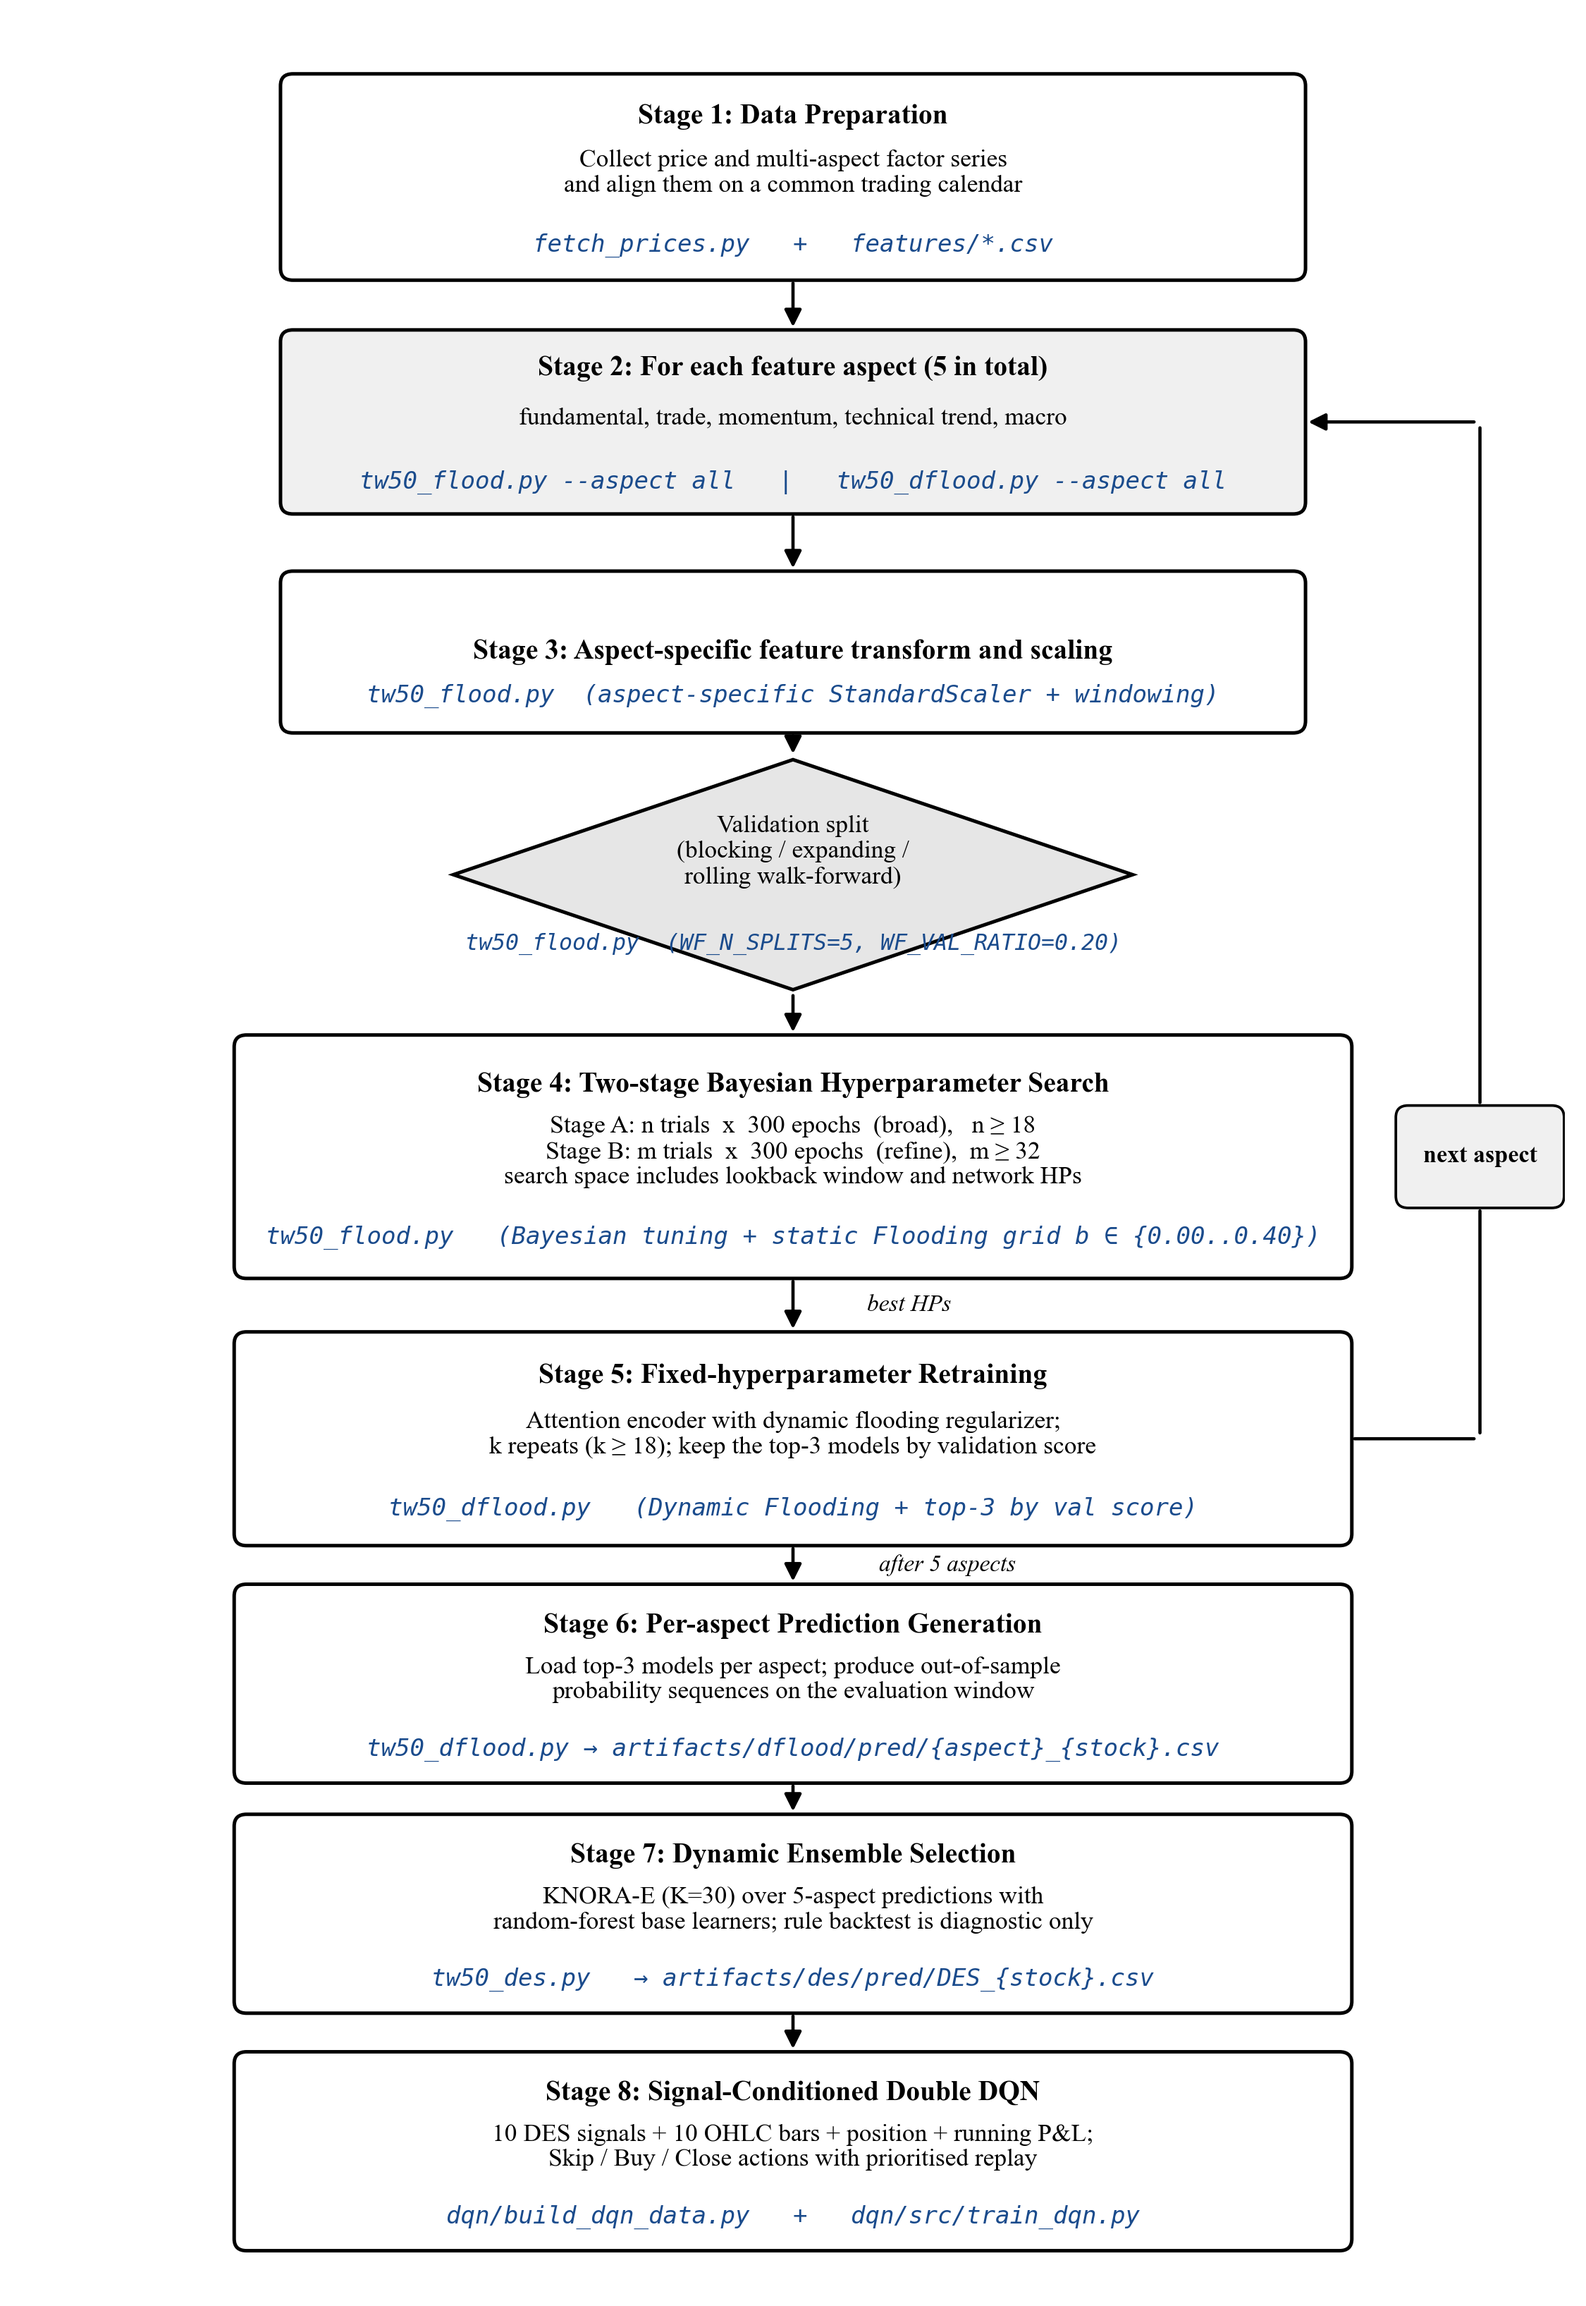
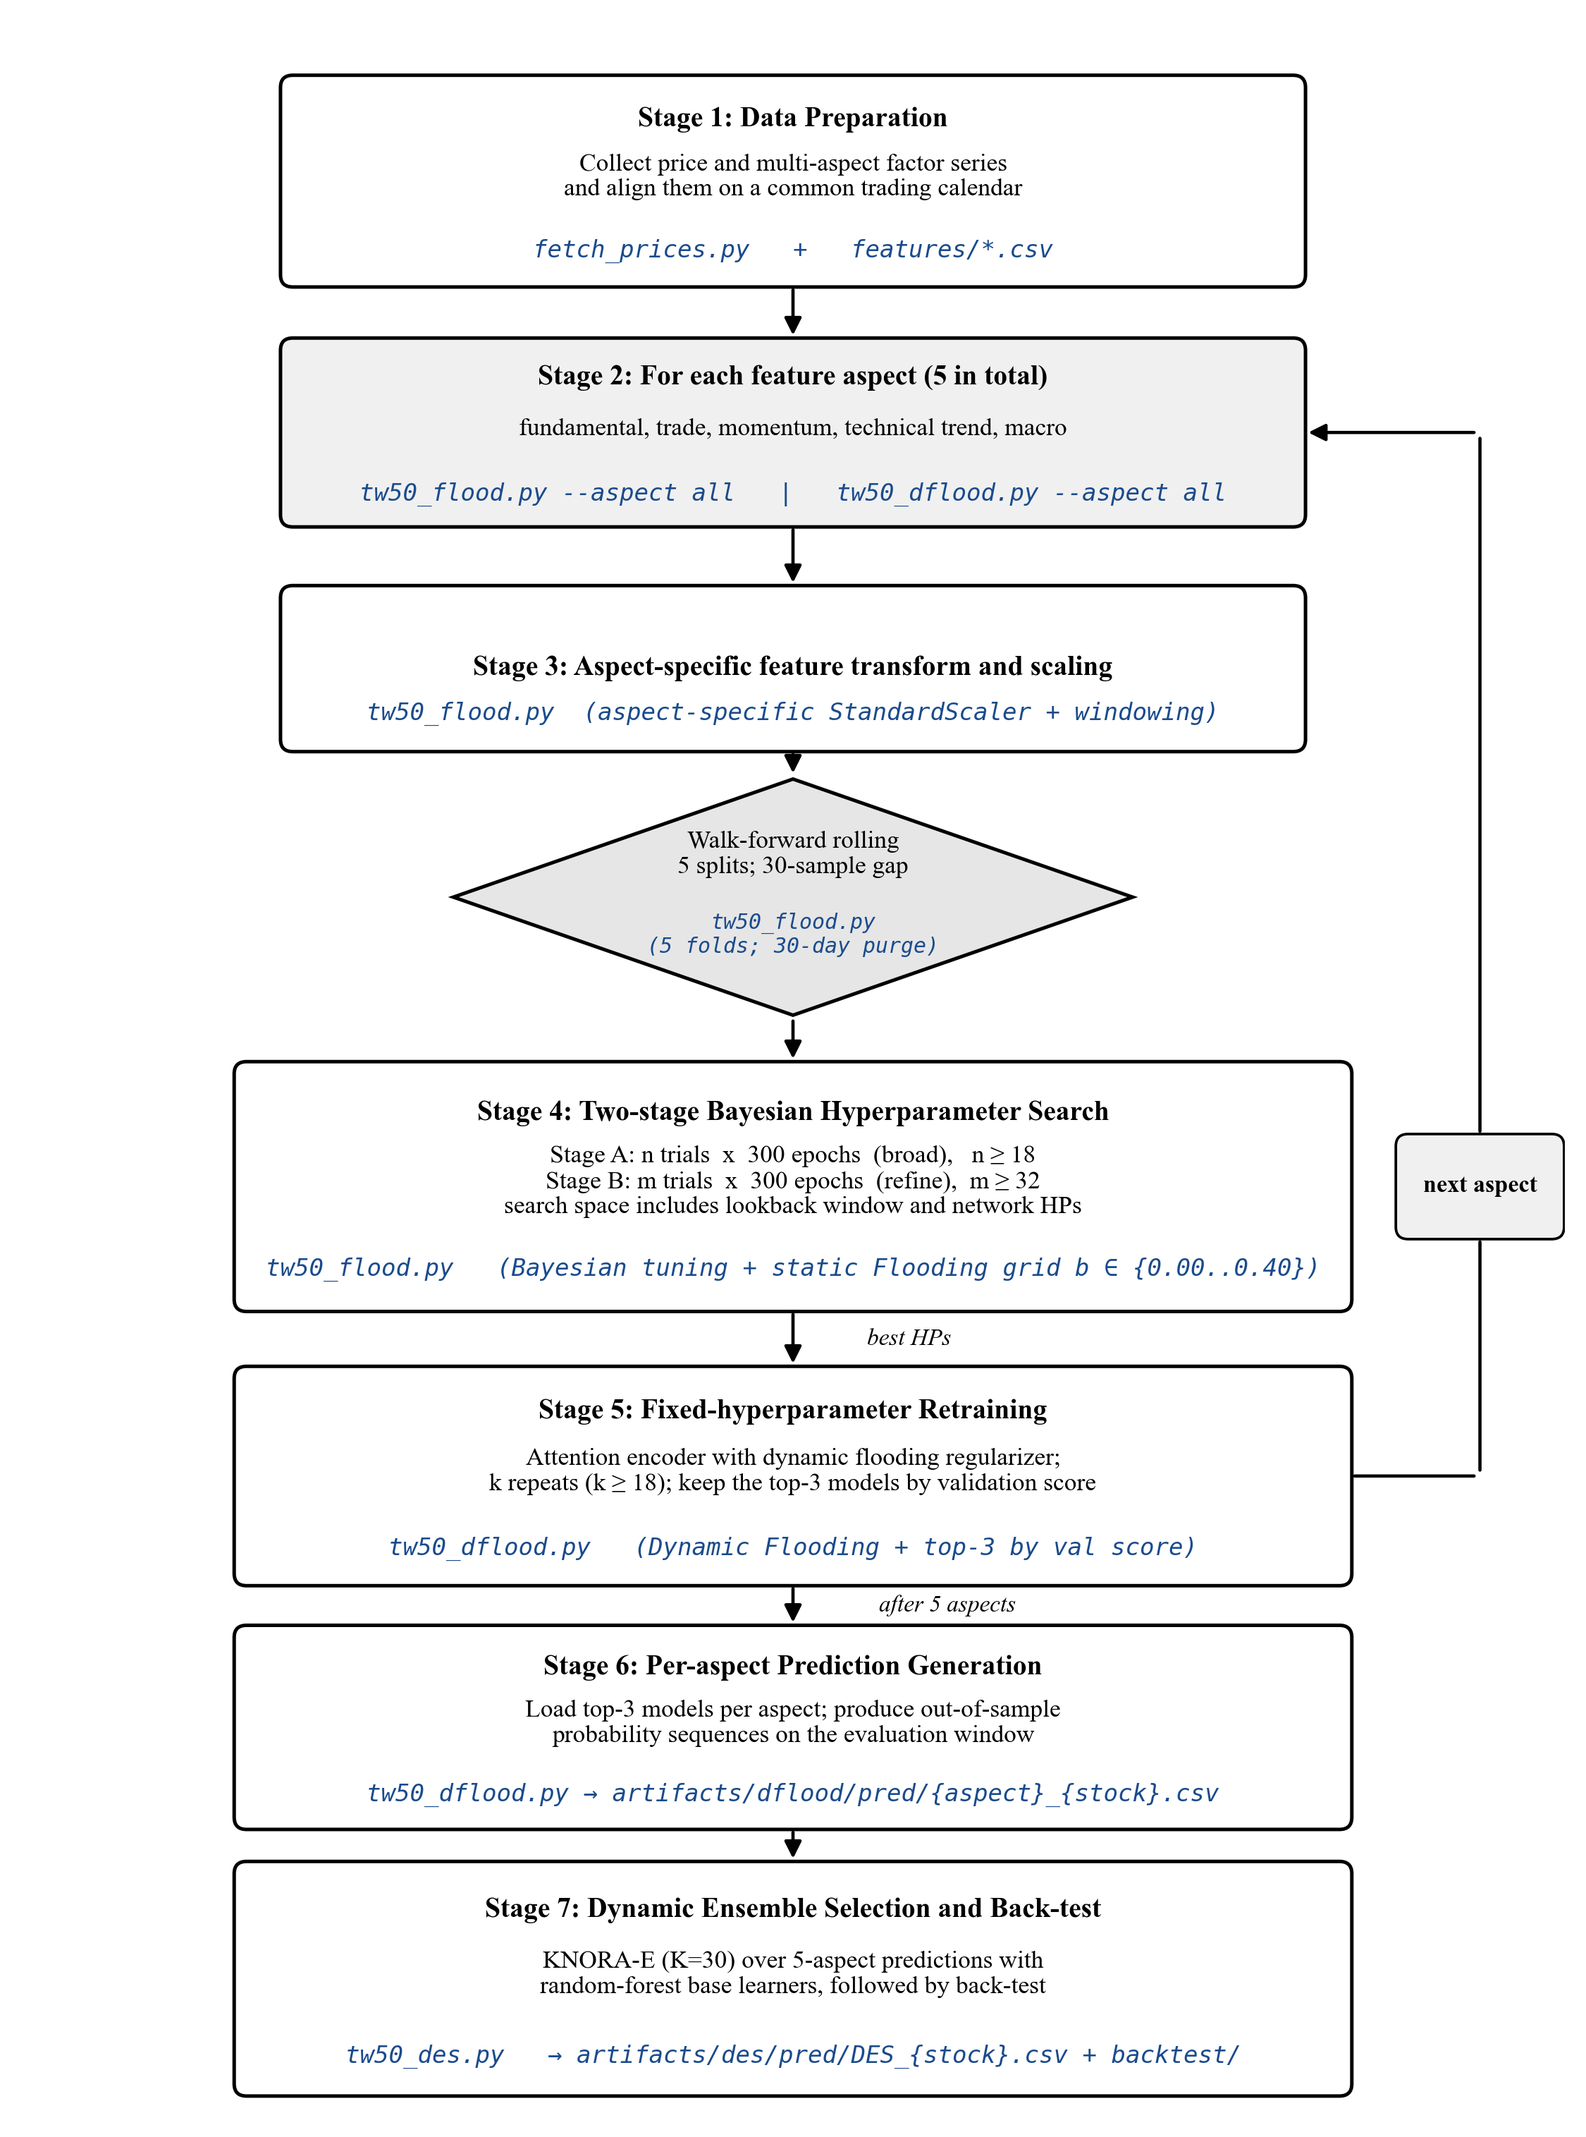
Align training pipeline figure with revised paper

diff --git a/docs/_render_training_pipeline.py b/docs/_render_training_pipeline.py
@@ -1,4 +1,4 @@
-"""Render docs/training_pipeline.png — DESQ end-to-end training pipeline (8 stages).
+"""Render docs/training_pipeline.png — revised-paper Figure B1 (7 stages).
 
 This is the DESQ-repo copy of the IEEE-style pipeline figure with per-stage
 code annotations pointing to the scripts in this repository.
@@ -68,9 +68,9 @@ def _diamond(ax, cx, cy, w, h, text, code=None, *, face=FILL_DEC, lw=1.2, fs=8.5
     poly = plt.Polygon(pts, closed=True, facecolor=face, edgecolor=LINE, linewidth=lw)
     ax.add_patch(poly)
     if code:
-        ax.text(cx, cy + h * 0.10, text, ha="center", va="center",
+        ax.text(cx, cy + h * 0.18, text, ha="center", va="center",
                 color=TEXT, fontsize=fs)
-        ax.text(cx, cy - h * 0.30, code, ha="center", va="center",
+        ax.text(cx, cy - h * 0.16, code, ha="center", va="center",
                 color=CODE_COLOR, fontsize=code_size, family="monospace",
                 fontstyle="italic")
     else:
@@ -105,11 +105,11 @@ def _arrow(ax, x1, y1, x2, y2, *, lw=1.1, label=None,
 
 
 def main() -> None:
-    fig, ax = plt.subplots(figsize=(7.6, 11.0), dpi=300)
+    fig, ax = plt.subplots(figsize=(7.6, 10.2), dpi=300)
     fig.patch.set_facecolor(BG)
     ax.set_facecolor(BG)
     ax.set_xlim(0, 10)
-    ax.set_ylim(-1.85, 13.4)
+    ax.set_ylim(-0.35, 13.4)
     ax.axis("off")
 
     _box(
@@ -140,9 +140,9 @@ def main() -> None:
 
     _diamond(
         ax, 5.0, 7.65, 4.4, 1.55,
-        "Validation split\n(blocking / expanding /\nrolling walk-forward)",
-        code="tw50_flood.py  (WF_N_SPLITS=5, WF_VAL_RATIO=0.20)",
-        code_size=7.6,
+        "Walk-forward rolling\n5 splits; 30-sample gap",
+        code="tw50_flood.py\n(5 folds; 30-day purge)",
+        code_size=7.2,
     )
 
     _box(
@@ -177,19 +177,11 @@ def main() -> None:
     )
 
     _box(
-        ax, 5.0, 0.65, 7.2, 1.30,
-        "Stage 7: Dynamic Ensemble Selection",
+        ax, 5.0, 0.55, 7.2, 1.50,
+        "Stage 7: Dynamic Ensemble Selection and Back-test",
         ("KNORA-E (K=30) over 5-aspect predictions with\n"
-         "random-forest base learners; rule backtest is diagnostic only"),
-        code="tw50_des.py   \u2192 artifacts/des/pred/DES_{stock}.csv",
-    )
-
-    _box(
-        ax, 5.0, -0.95, 7.2, 1.30,
-        "Stage 8: Signal-Conditioned Double DQN",
-        ("10 DES signals + 10 OHLC bars + position + running P&L;\n"
-         "Skip / Buy / Close actions with prioritised replay"),
-        code="dqn/build_dqn_data.py   +   dqn/src/train_dqn.py",
+         "random-forest base learners, followed by back-test"),
+        code="tw50_des.py   \u2192 artifacts/des/pred/DES_{stock}.csv + backtest/",
     )
 
     _arrow(ax, 5.0, 11.675, 5.0, 11.30)
@@ -208,7 +200,6 @@ def main() -> None:
            label="after 5 aspects", label_offset=(1.0, 0))
 
     _arrow(ax, 5.0, 1.55, 5.0, 1.30)
-    _arrow(ax, 5.0, 0.00, 5.0, -0.30)
 
     plt.tight_layout()
     fig.savefig(OUT_PATH, facecolor=BG, bbox_inches="tight")

diff --git a/docs/paper_revision_v1.2.md b/docs/paper_revision_v1.2.md
@@ -22,6 +22,7 @@ yellow highlights, and page-aware text differences.
 | Table 4, p. 16 | Static Flooding return 104.4%; No Flooding return 89.9%. | Static Flooding return 111.1%; No Flooding return 96.6%. | Update reported source rows and regenerate all table formats and manifests. |
 | Section IV.F, p. 16 | Passive Top-50 119.1%; DESQ excess +9.9 percentage points. | Passive Top-50 108.64%; DESQ excess +20.35 percentage points. | Canonical Appendix C Table C1 already contains 108.64% and +20.35 pp; align prose and references without inventing a NAV path. |
 | Appendices A/C/E/F | Tables 9/10/11/12 and Figures 18/20 used sequential numbering. | These are Tables A1/C1/E1/F1 and Figure B1; the bootstrap illustration is Figure D1. | Preserve compatibility filenames where useful, but use current paper labels and page references in generated content and documentation. |
+| Appendix B, Figure B1, p. 21 | The repository diagram extended the paper flow with an eighth DDQN box. | Figure B1 contains seven stages, a five-split/30-sample-gap walk-forward node, and ends with dynamic ensemble selection and back-test. | Regenerate `docs/training_pipeline.png` from the seven-stage renderer; document DDQN separately rather than inserting it into Figure B1. |
 
 ## Unchanged executable contract
 

diff --git a/README.md b/README.md
@@ -18,9 +18,13 @@ windows (4:1 train:validation ratio) with a 20-day label horizon and a further
 
 ## End-to-end training pipeline
 
-The eight stages below are the complete per-stock workflow, annotated with the exact script in this repository that implements each stage. The `next aspect` loop repeats stages 2–5 for each of the five feature aspects; after all five aspects are trained, stages 6–8 run once.
+The seven stages below reproduce the revised paper's Appendix B Figure B1,
+with repository script annotations added in blue. The `next aspect` loop
+repeats stages 2–5 for each of the five feature aspects; after all five aspects
+are trained, stages 6–7 run once. The paper's separate Signal-Conditioned
+Double DQN execution layer is documented under Stage 4 below.
 
-![End-to-end training pipeline (7 stages, with code annotations)](docs/training_pipeline.png)
+![Figure B1. End-to-end DESQ training and back-test pipeline (7 stages, with repository code annotations)](docs/training_pipeline.png)
 
 Regenerate the figure with `python docs/_render_training_pipeline.py`.
 

diff --git a/docs/RELEASE_NOTES_v1.2-desq.md b/docs/RELEASE_NOTES_v1.2-desq.md
@@ -17,6 +17,8 @@ The PDF is an audit input and is not included in the release.
   return from 89.9% to 96.6%, preserving `reported_only` provenance.
 - Uses current Appendix A Table A1 and Appendix C Table C1 labels while
   preserving `table9_*` and `table10_*` compatibility filenames.
+- Regenerates Appendix B Figure B1 as the current seven-stage training and
+  back-test flow, including the five-split/30-sample-gap walk-forward node.
 - Realigns monitoring to Appendix F Eqs. (10)-(20) and Appendix G Eqs.
   (21)-(29). Level 0-3 candidate planning and promotion controls are explicitly
   repository-defined operational policy.
